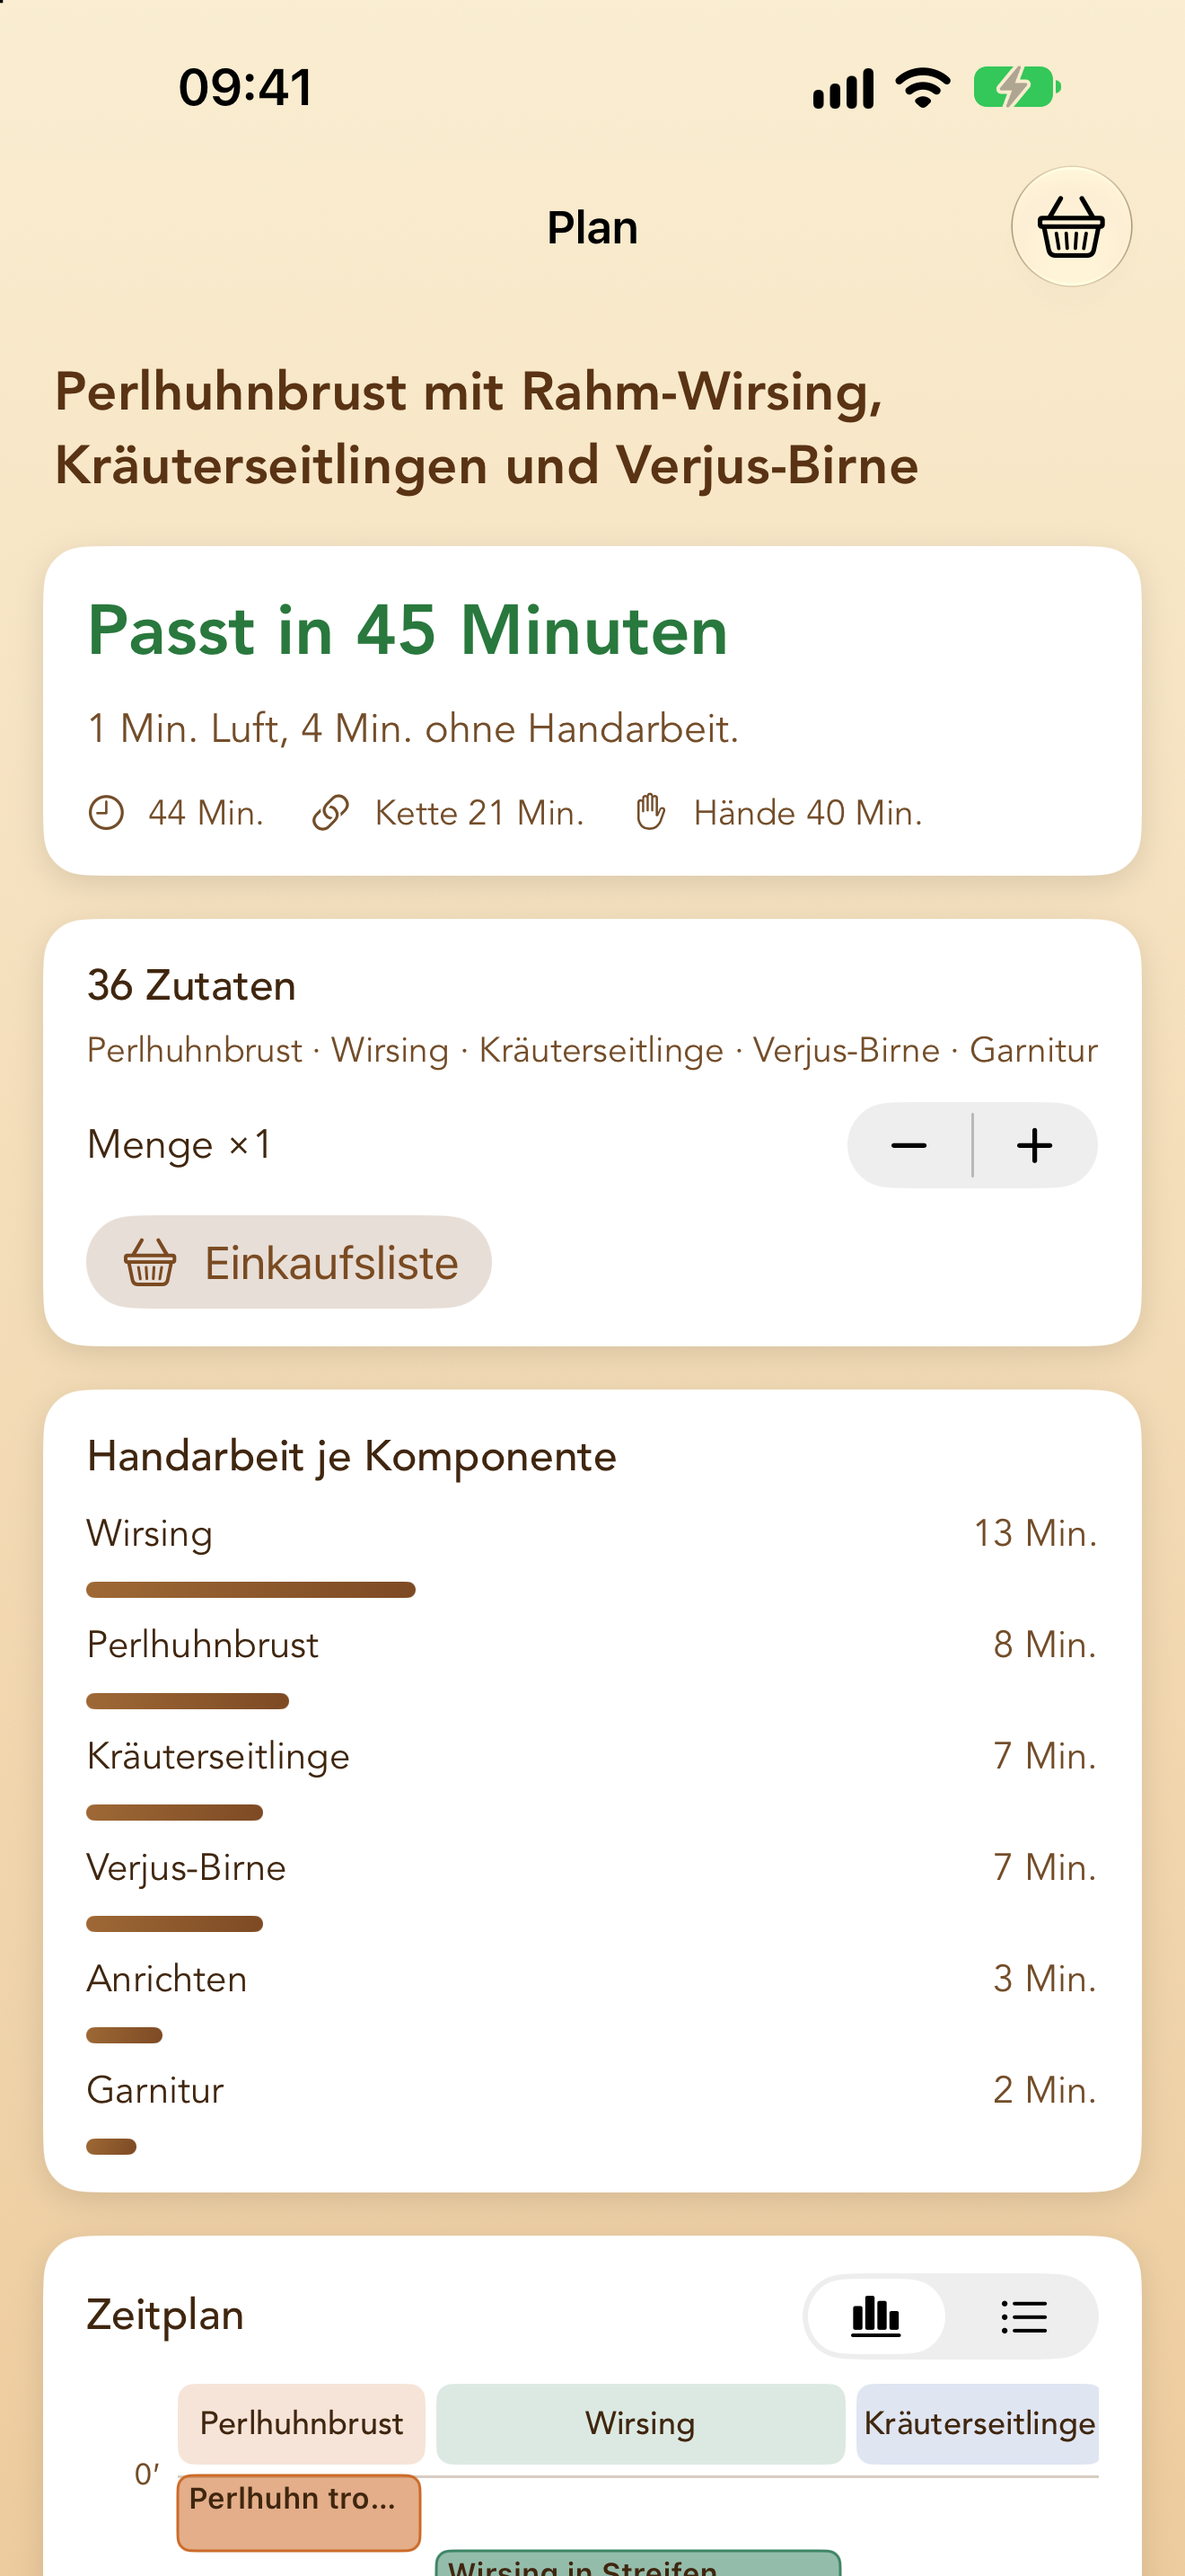
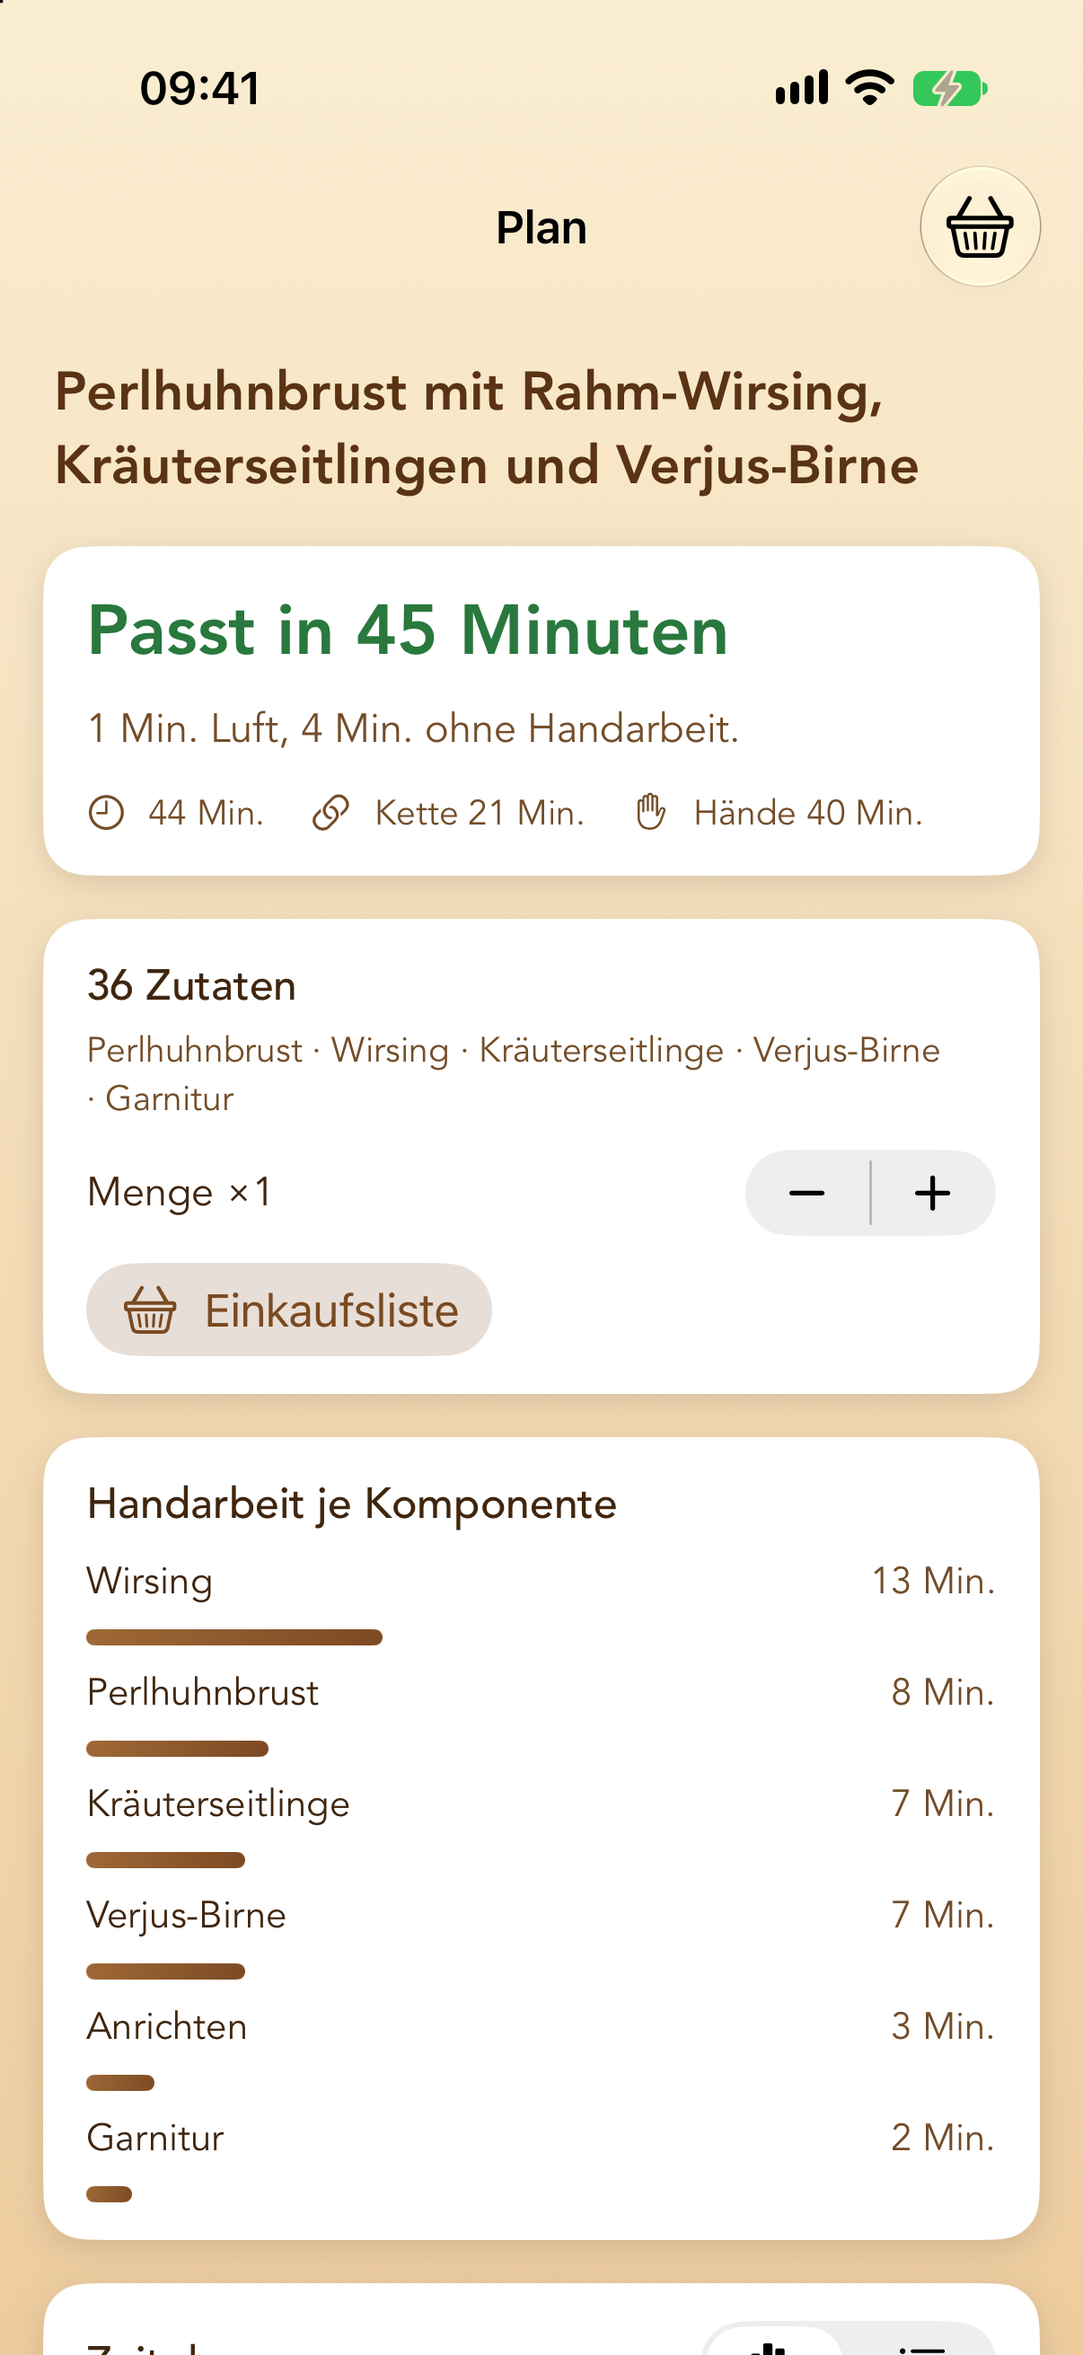
CookPlanner has store pictures for the unfolded iPhone Duo, and its iPhone pictures come in the size App Store Connect takes
Six pictures of the Duo's inner display (2007 × 2853), taken through
display 3 with the launch arguments, since touches do not reach the
inner display in the simulator. The iPhone set is retaken on the
iPhone 17 Pro (1206 × 2622); the Max sizes were refused for BakePlanner.

diff --git a/docs/CookPlanner-Store.md b/docs/CookPlanner-Store.md
@@ -168,10 +168,10 @@ Shopping list: on a dish's plan, the basket button. Settings (slider icon): time
 
 ## Bildschirmfotos
 
-Aufgenommen im Simulator (iPhone 18 Pro Max und iPad Pro 13 Zoll, iOS 27.3) mit Statusleiste 9:41, Zeitbudget 45 Minuten und den Debug-Startargumenten: ohne Argument die Gerichteliste, `-PlanSample 0` der Plan, `-TimelineSample 0 -TimelineNow 13.5` die Zeitachse, `-CookSample 0 -CookElapsed 790 -settings.clockMode challenge` der laufende Kochmodus, `-ShoppingSample 0` die Einkaufsliste, `-HistoryDemo statistics` die Statistik; dazu `-settings.budgetMinutes 45 -AppleLanguages (de) -AppleLocale de_DE`.
+Aufgenommen im Simulator (iPhone 17 Pro – laut BakePlanners Erfahrung nimmt App Store Connect die Maße der *Max*-Modelle nicht an –, iPad Pro 13 Zoll und iPhone Duo aufgeklappt, alle iOS 27.3) mit Statusleiste 9:41, Zeitbudget 45 Minuten und den Debug-Startargumenten: ohne Argument die Gerichteliste, `-PlanSample 0` der Plan, `-TimelineSample 0 -TimelineNow 13.5` die Zeitachse, `-CookSample 0 -CookElapsed 790 -settings.clockMode challenge` der laufende Kochmodus, `-ShoppingSample 0` die Einkaufsliste, `-HistoryDemo statistics` die Statistik; dazu `-settings.budgetMinutes 45 -AppleLanguages (de) -AppleLocale de_DE`. Die aufgeklappte Duo: `hinge -d <udid> open`, dann `hinge -d <udid> orient landscape-left` (Innendisplay hochkant), App mit dem Argument starten und `xcrun simctl io <udid> screenshot --display 3` – Berührungen erreichen das Innendisplay im Simulator nicht, die Startargumente brauchen keine.
 
 ## Offen
 
 - Webseiten `cookplanner.html` und `cookplanner-privacy.html` ins Website-Repository hochladen (Hans-Peter), dann die beiden URLs oben in App Store Connect eintragen.
-- Screenshots hochladen: `docs/appstore/cookplanner-1.0/iphone-6.9/de/` (1320 × 2868) und `…/ipad-13/de/` (2064 × 2752), je sechs Bilder (Gerichte, Plan, Zeitachse, Kochen, Einkauf, Statistik); ohne eigene Bilder für en/fr nimmt App Store Connect die deutschen. iPad bleibt unterstützt (Layout im Simulator geprüft, Hans-Peter nutzt die App auf dem iPad).
+- Screenshots hochladen: `docs/appstore/cookplanner-1.0/iphone-6.9/de/` (1206 × 2622), `…/ipad-13/de/` (2064 × 2752) und `…/iphone-duo-inner/de/` (2007 × 2853, iPhone Duo aufgeklappt), je sechs Bilder (Gerichte, Plan, Zeitachse, Kochen, Einkauf, Statistik); ohne eigene Bilder für en/fr nimmt App Store Connect die deutschen. iPad bleibt unterstützt (Layout im Simulator geprüft, Hans-Peter nutzt die App auf dem iPad).
 - Erster TestFlight-Build und echter Kochtest auf beiden Geräten (iCloud-Abgleich in Production, Wecker, Mitteilungen).
